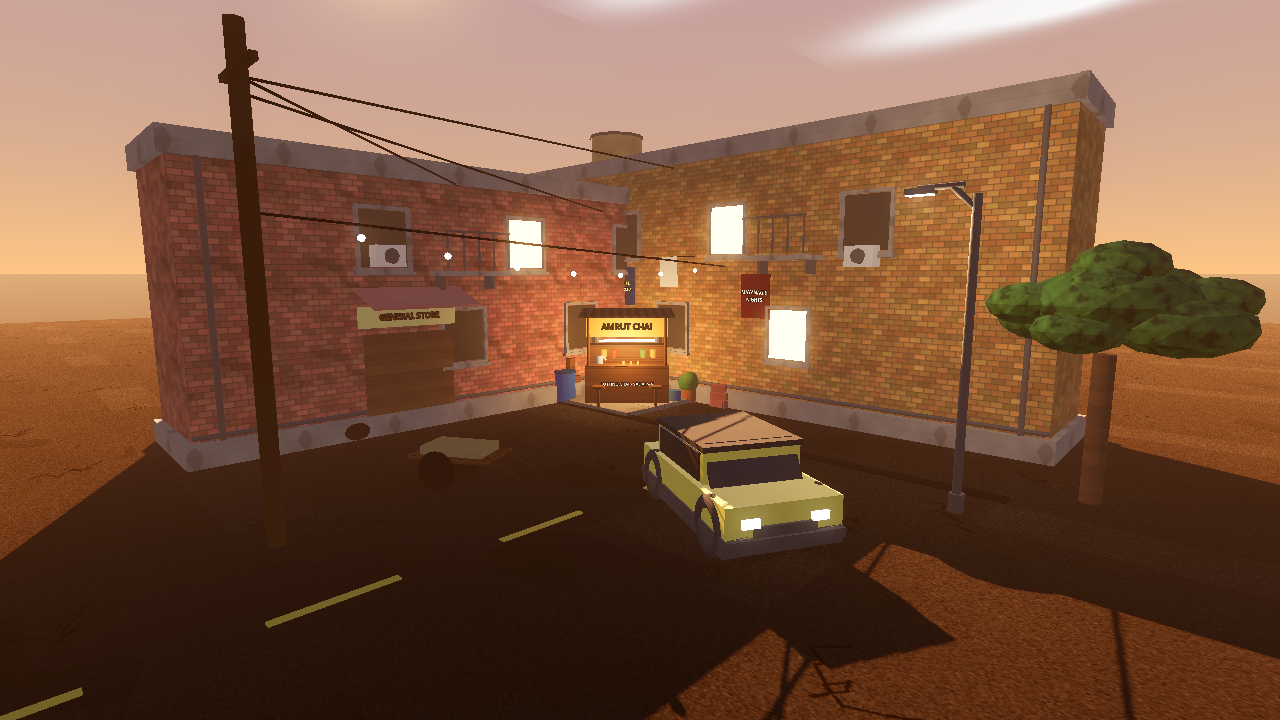
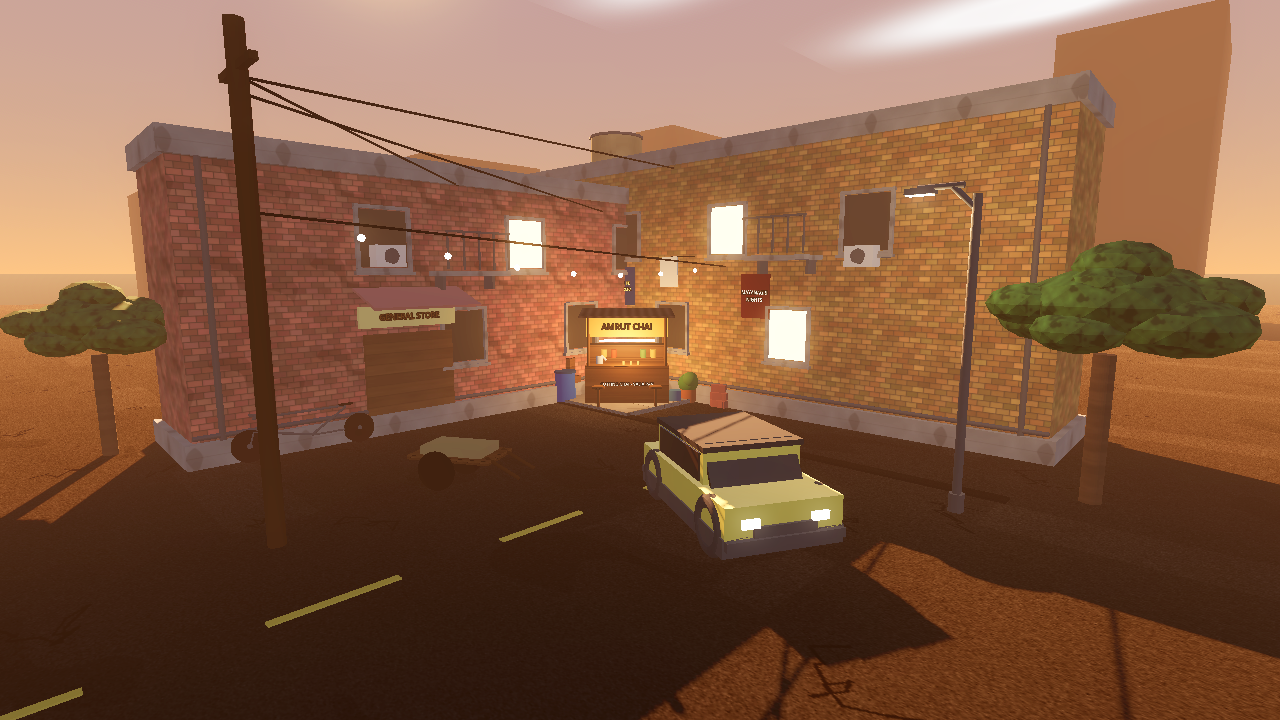
GTA V push: modelled Vee character, distant skyline, second tree, bicycle, lighting polish

diff --git a/tools/build_vee.py b/tools/build_vee.py
@@ -1,0 +1,163 @@
+#!/usr/bin/env python3
+"""Build Vee, the player character, in Blender — a proper GTA V-like
+humanoid (real proportions, face, hair, clothes, shoes), not the old
+blocky placeholder.
+
+Run:  blender --background --python tools/build_vee.py
+Writes: characters/vee.glb
+
+The model faces -Z (Godot forward). Animation pivots are empty nodes
+named LegL_pivot / LegR_pivot / ArmL_pivot / ArmR_pivot (the head and
+torso are children of Torso_pivot); characters/vee_placeholder.gd
+finds them by name and drives the same procedural walk/run/jump/punch
+poses as before. All geometry is original, modelled here.
+"""
+import bpy
+import math
+import os
+
+HERE = os.path.dirname(os.path.abspath(__file__))
+OUT = os.path.join(HERE, "..", "characters", "vee.glb")
+
+
+def G(p):
+    """Godot (x, y, z) -> Blender (x, -z, y). Works for positions and
+    for relative offsets (it is a linear map)."""
+    return (p[0], -p[2], p[1])
+
+
+def GS(s):
+    """Godot size (sx, sy, sz) -> Blender (sx, sz, sy)."""
+    return (s[0], s[2], s[1])
+
+
+_mats = {}
+
+
+def flat_mat(name, color, rough=0.85, metallic=0.0):
+    if name in _mats:
+        return _mats[name]
+    m = bpy.data.materials.new(name)
+    m.use_nodes = True
+    bsdf = m.node_tree.nodes["Principled BSDF"]
+    bsdf.inputs["Base Color"].default_value = (*color, 1.0)
+    bsdf.inputs["Roughness"].default_value = rough
+    bsdf.inputs["Metallic"].default_value = metallic
+    _mats[name] = m
+    return m
+
+
+def box(parent, name, pos, size, mat, bevel=0.0):
+    bpy.ops.mesh.primitive_cube_add(location=G(pos))
+    o = bpy.context.active_object
+    o.name = name
+    o.dimensions = GS(size)
+    bpy.ops.object.transform_apply(location=False, rotation=False, scale=True)
+    o.data.materials.append(mat)
+    if bevel > 0:
+        mod = o.modifiers.new("bev", "BEVEL")
+        mod.width = bevel
+        mod.segments = 2
+    if parent is not None:
+        o.parent = parent
+    return o
+
+
+def cone(parent, name, pos, r_bottom, r_top, height, mat, segments=10):
+    bpy.ops.mesh.primitive_cone_add(radius1=r_bottom, radius2=r_top,
+                                    depth=height, vertices=segments, location=G(pos))
+    o = bpy.context.active_object
+    o.name = name
+    o.data.materials.append(mat)
+    if parent is not None:
+        o.parent = parent
+    return o
+
+
+def cyl(parent, name, pos, radius, height, mat, segments=10):
+    return cone(parent, name, pos, radius, radius, height, mat, segments)
+
+
+def sphere(parent, name, pos, radius, mat, scale=(1, 1, 1)):
+    bpy.ops.mesh.primitive_uv_sphere_add(radius=radius, location=G(pos),
+                                         segments=20, ring_count=14)
+    o = bpy.context.active_object
+    o.name = name
+    o.scale = GS(scale)
+    o.data.materials.append(mat)
+    if parent is not None:
+        o.parent = parent
+    return o
+
+
+def pivot(parent, name, pos):
+    bpy.ops.object.empty_add(type="PLAIN_AXES", location=G(pos))
+    o = bpy.context.active_object
+    o.name = name
+    if parent is not None:
+        o.parent = parent
+    return o
+
+
+def build():
+    bpy.ops.object.select_all(action="SELECT")
+    bpy.ops.object.delete()
+
+    skin = flat_mat("skin", (0.78, 0.54, 0.38), rough=0.7)
+    shirt = flat_mat("shirt", (0.18, 0.44, 0.70), rough=0.9)
+    pants = flat_mat("pants", (0.25, 0.27, 0.36), rough=0.95)
+    hair_m = flat_mat("hair", (0.08, 0.08, 0.08), rough=0.9)
+    shoe_m = flat_mat("shoe", (0.12, 0.11, 0.10), rough=0.6)
+    dark = flat_mat("dark", (0.05, 0.05, 0.05), rough=0.5)
+    belt_m = flat_mat("belt", (0.16, 0.12, 0.09), rough=0.7)
+
+    # --- legs (hip pivots at y 0.85, feet on the ground) ---
+    for side, sx in [("L", -1), ("R", 1)]:
+        leg = pivot(None, f"Leg{side}_pivot", (sx * 0.11, 0.85, 0))
+        cone(leg, f"Thigh{side}", (0, -0.21, 0), 0.075, 0.095, 0.42, pants)
+        cone(leg, f"Shin{side}", (0, -0.62, 0), 0.055, 0.07, 0.40, pants)
+        # Shoe: toe forward (-Z), sole on y 0.
+        box(leg, f"Shoe{side}", (0, -0.81, -0.04), (0.11, 0.08, 0.28), shoe_m, bevel=0.02)
+
+    # --- torso (pivot at the hips so the whole upper body can lean) ---
+    torso = pivot(None, "Torso_pivot", (0, 0.85, 0))
+    box(torso, "Torso", (0, 0.28, 0), (0.46, 0.55, 0.26), shirt, bevel=0.03)
+    box(torso, "Belt", (0, 0.02, 0), (0.47, 0.06, 0.27), belt_m, bevel=0.01)
+    # Collar: a flattened torus around the neck. The default torus lies
+    # in the Blender X-Y plane, which is the Godot X-Z (horizontal) plane.
+    bpy.ops.mesh.primitive_torus_add(major_radius=0.09, minor_radius=0.02,
+                                     location=G((0, 0.56, 0)))
+    collar = bpy.context.active_object
+    collar.name = "Collar"
+    collar.data.materials.append(shirt)
+    collar.parent = torso
+
+    # --- head (pivot at the neck, y 1.45) ---
+    head = pivot(torso, "Head_pivot", (0, 0.60, 0))
+    sphere(head, "Skull", (0, 0.10, 0), 0.115, skin, scale=(1.0, 1.15, 1.05))
+    box(head, "Jaw", (0, 0.03, -0.02), (0.16, 0.10, 0.14), skin, bevel=0.02)
+    box(head, "Nose", (0, 0.08, -0.11), (0.03, 0.06, 0.04), skin, bevel=0.01)
+    sphere(head, "EarL", (-0.11, 0.10, 0), 0.03, skin)
+    sphere(head, "EarR", (0.11, 0.10, 0), 0.03, skin)
+    sphere(head, "EyeL", (-0.04, 0.12, -0.118), 0.015, dark)
+    sphere(head, "EyeR", (0.04, 0.12, -0.118), 0.015, dark)
+    box(head, "BrowL", (-0.04, 0.155, -0.118), (0.05, 0.015, 0.015), hair_m)
+    box(head, "BrowR", (0.04, 0.155, -0.118), (0.05, 0.015, 0.015), hair_m)
+    # Hair: cap over the top/back of the skull + a fringe on the forehead.
+    sphere(head, "Hair", (0, 0.14, 0.02), 0.12, hair_m, scale=(1.02, 0.9, 1.05))
+    box(head, "Fringe", (0, 0.17, -0.09), (0.2, 0.06, 0.05), hair_m, bevel=0.01)
+
+    # --- arms (shoulder pivots at y 1.35) ---
+    for side, sx in [("L", -1), ("R", 1)]:
+        arm = pivot(torso, f"Arm{side}_pivot", (sx * 0.29, 0.50, 0))
+        cone(arm, f"UpperArm{side}", (0, -0.14, 0), 0.05, 0.058, 0.28, shirt)
+        cone(arm, f"Forearm{side}", (0, -0.40, 0), 0.042, 0.05, 0.26, skin)
+        box(arm, f"Hand{side}", (0, -0.58, 0), (0.07, 0.12, 0.045), skin, bevel=0.015)
+        box(arm, f"Thumb{side}", (sx * -0.045, -0.55, -0.01), (0.02, 0.05, 0.02), skin, bevel=0.008)
+
+    bpy.ops.export_scene.gltf(filepath=OUT, export_format="GLB")
+    print("exported", OUT)
+
+
+if __name__ == "__main__":
+    build()

diff --git a/docs/STEP3_PLAYER.md b/docs/STEP3_PLAYER.md
@@ -108,3 +108,27 @@ Adobe account, not CC0).
   numbers live at the top of `characters/player.gd` — walk/run speed,
   accel, gravity, jump velocity, mouse sensitivity. Report what feels
   off and it gets one tuning pass before Step 4.
+
+## 7. Modelled Vee — the blocky placeholder is gone (2026-11-15)
+
+Harsh asked for a "better real gta v like character". The primitive
+Vee (stacked boxes) was replaced by a Blender-modelled humanoid:
+
+- `tools/build_vee.py` builds `characters/vee.glb`: ~1.70 m, real
+  proportions (head 1/7.5 of height, legs 0.85 m), tapered limbs,
+  shoes with toes, shirt + belt + collar, head with skull, jaw, nose,
+  ears, eyes, brows, hair cap + fringe. All flat-colour materials
+  (skin, shirt blue, pants, hair, shoes) — no textures at this scale.
+  All geometry original, modelled here.
+- The .glb carries empty pivot nodes (`LegL/R_pivot` at the hips,
+  `ArmL/R_pivot` at the shoulders, `Torso_pivot`, `Head_pivot`).
+- `characters/vee_placeholder.gd` now loads the .glb and finds the
+  pivots by name; `animate()` is byte-for-byte the same math as
+  before (same swing, bob, tuck, punch). `player.gd` is untouched —
+  the swap is invisible to the controller.
+- Verification: player tests still 15/15 PASS (the walk/run/jump
+  path exercises `animate()` on the new pivots), headless run clean.
+- The CC0 rigged-character swap (Quaternius, documented in
+  `docs/ASSET_LICENCES.md`) is still an option for later — the
+  modelled Vee is the current visual, and the pivot structure means
+  a rigged model can drop into the same `animate()` API.

diff --git a/docs/STEP2_LOOK_TEST.md b/docs/STEP2_LOOK_TEST.md
@@ -261,3 +261,30 @@ picks.
   than warm orange under ACES.
 - **Gate:** Harsh's verdict — lock it (then Step 4 vehicles) or list
   changes.
+
+### Graphics push — GTA V-like character + skyline (2026-11-15)
+
+Harsh asked for "better real gta v like character n graphics" after
+the realistic look test. Two things changed:
+
+- **Character:** the blocky placeholder Vee was replaced by a
+  Blender-modelled humanoid (`tools/build_vee.py` →
+  `characters/vee.glb`, see `docs/STEP3_PLAYER.md` §7). Same
+  animation API, same controller.
+- **Graphics:** the horizon was empty brown. Added a distant Mumbai
+  skyline (`_build_skyline()` in `world/dharavi_corner.gd`): 16
+  dark buildings (10–22 m) ringing the corner at 55–70 m, a few lit
+  windows, fog-hazed. Iteration 1 put them at 45–58 m in
+  `#2e3440` — they read as giant sunlit cardboard boxes looming
+  over the chawls. Iteration 2: pushed to 55–70 m, darker
+  `#262b36`, heights capped at 22 m, ground plane widened 120→200 m
+  so they stand on ground, fog 0.006→0.008. They now read as a
+  distant city. Also added: a second tree on the west sidewalk, a
+  bicycle leaning on building B, softer sun shadows
+  (`shadow_blur` 1.0, max distance 150) and a dim cool fill light
+  from the east (0.2, no shadows).
+- Shots: `docs/step2_shot_realistic.png` + `docs/step3_shot.png`
+  (re-shot). Verification: import clean, headless run exit 0,
+  player tests 15/15 PASS.
+- **Gate:** still Harsh's verdict — lock the look (then Step 4
+  vehicles) or list changes.
